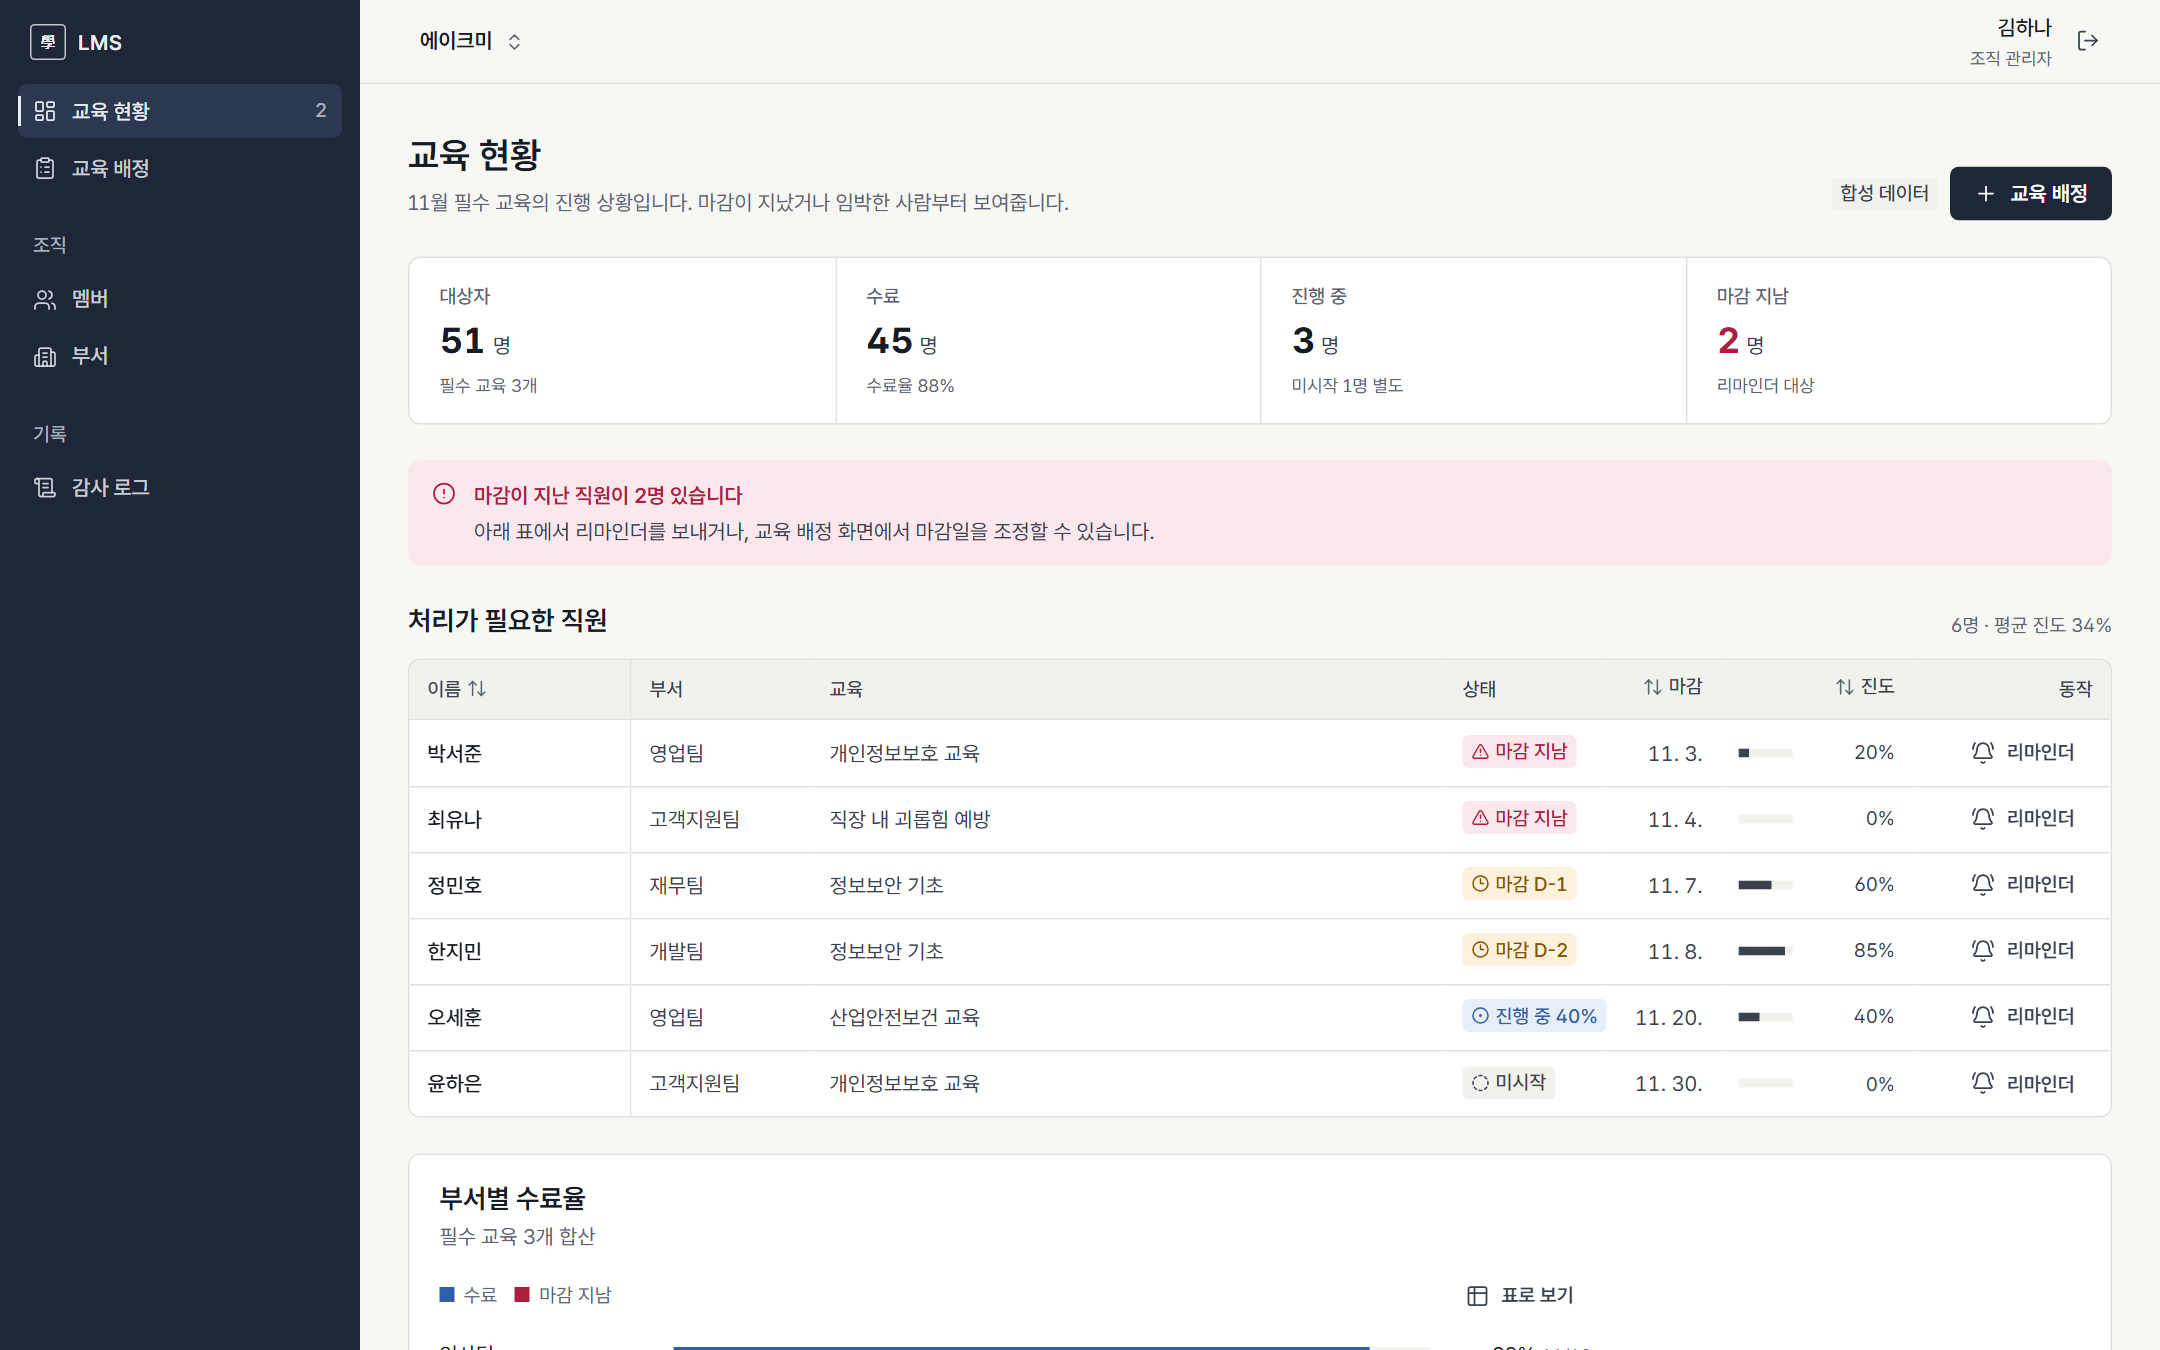
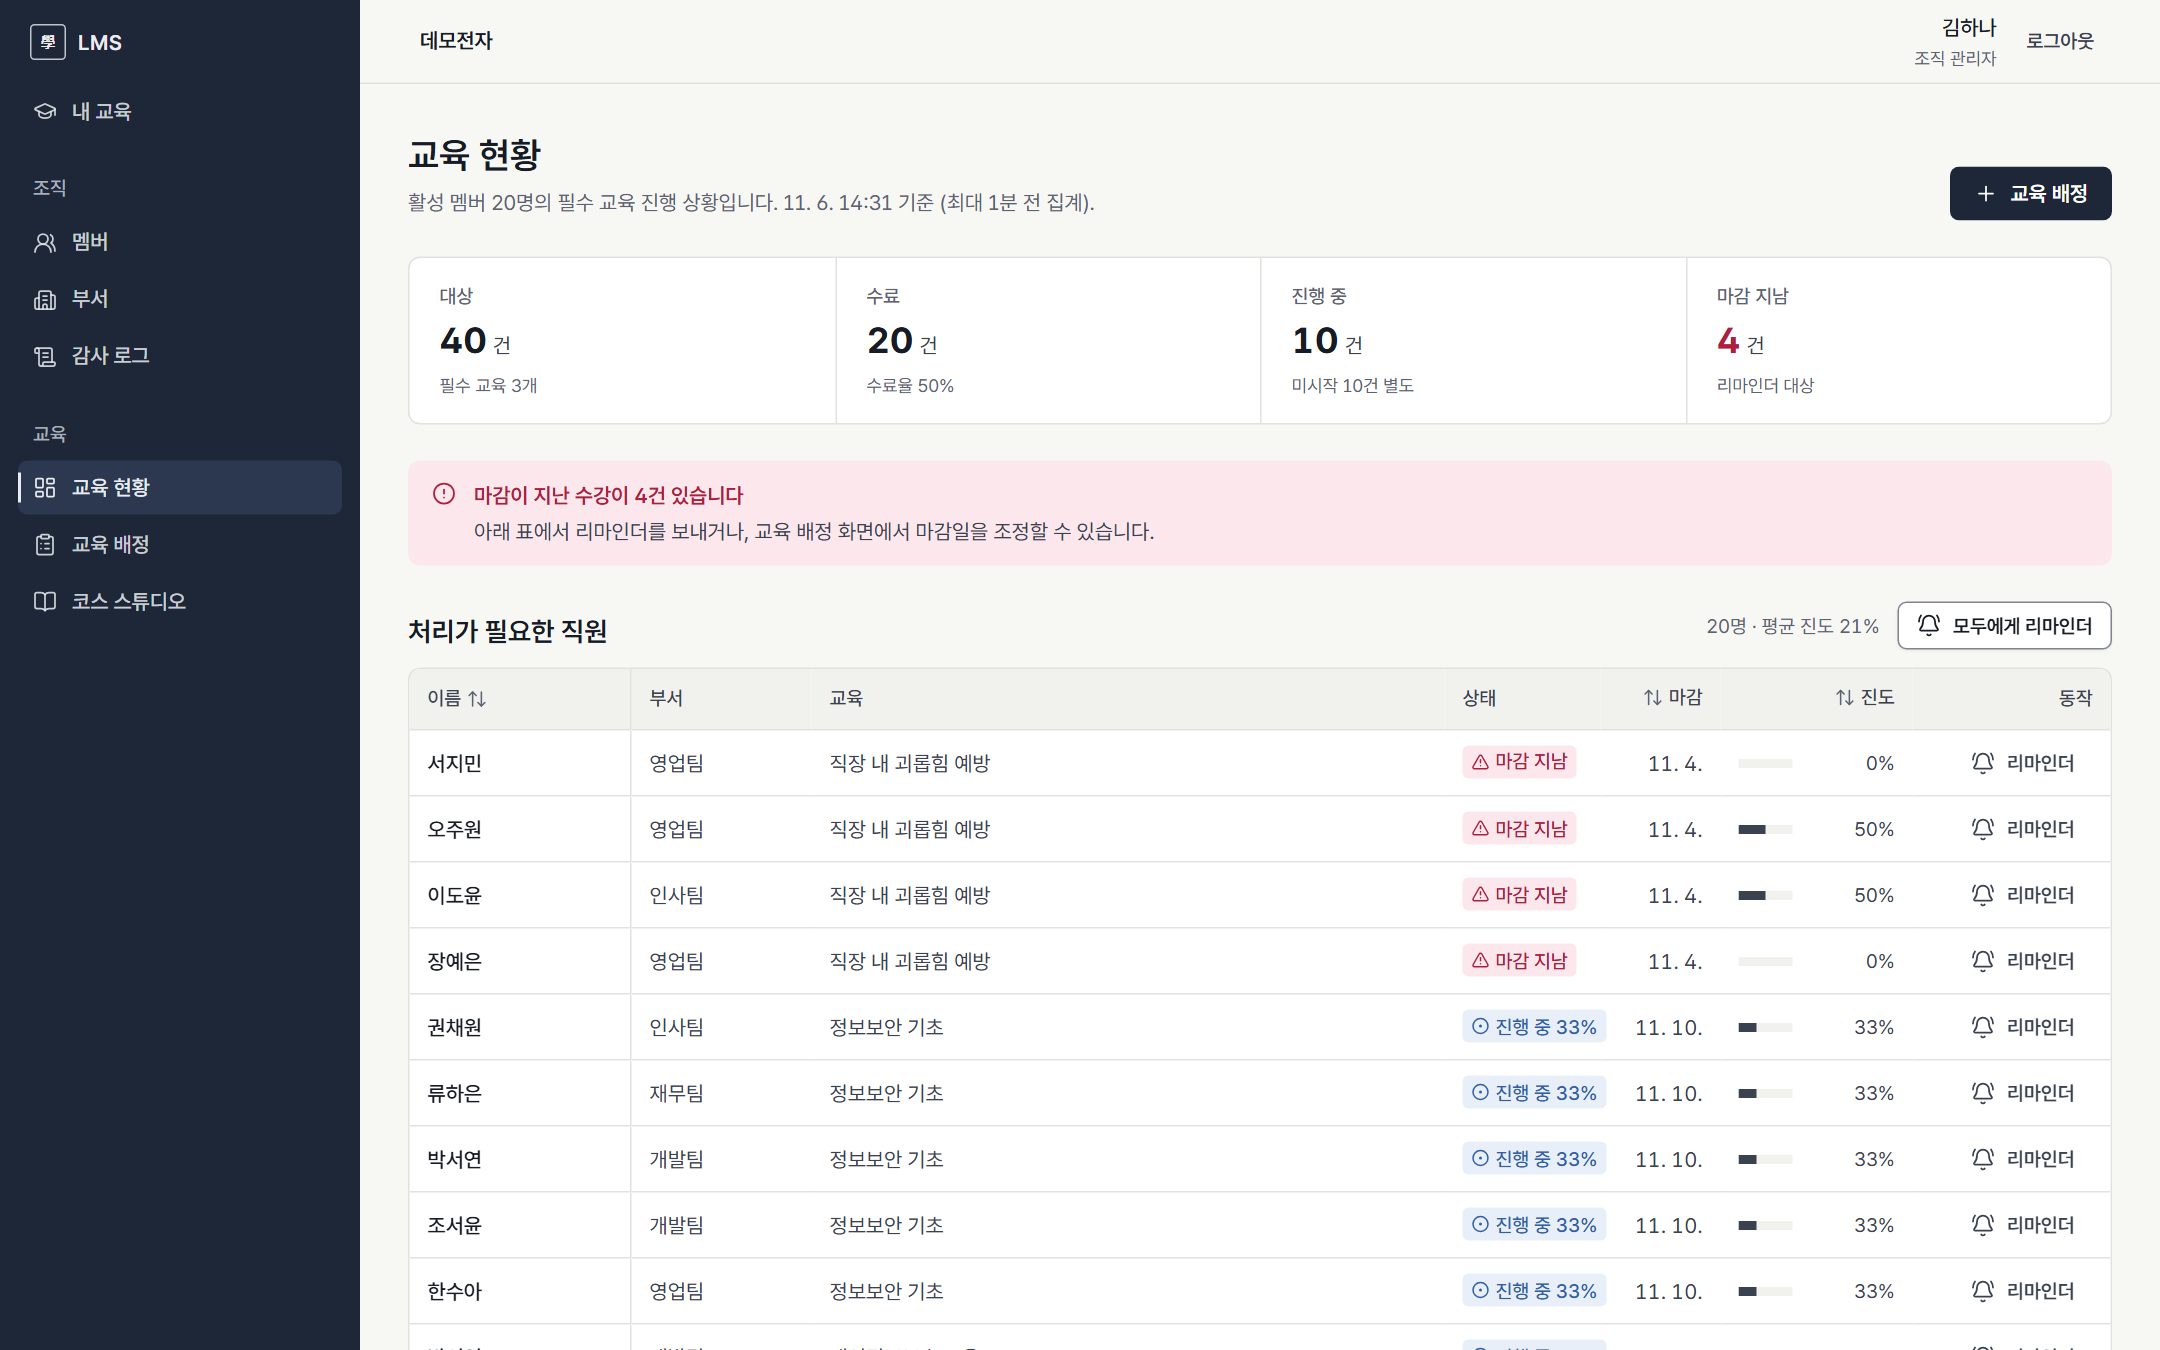
docs: README screenshots from the running app with demo data
A Playwright script (frontend/e2e/screenshots, `pnpm screenshots`) signs in
with seeded accounts and captures the dashboard (desktop and mobile) and
the completion seal, replacing the Storybook-era images. The E2E tests now
share the sign-in helper. Notes and Q&A updated for the name-order fix.

diff --git a/frontend/e2e/screenshots/readme.spec.ts b/frontend/e2e/screenshots/readme.spec.ts
@@ -1,0 +1,67 @@
+import path from "node:path";
+
+import { expect, test, type Page } from "@playwright/test";
+
+import { signIn } from "../support/auth";
+
+/**
+ * README screenshots from the running app with the seeded demo data (not from Storybook), so
+ * the pictures show what the demo shows. Writes docs/images/*.png. Run on purpose only:
+ *   playwright test --config playwright.screenshots.config.ts
+ * It completes one course of SEAL_LEARNER (not learner@, which is kept for the live demo).
+ */
+const IMAGES = path.join(__dirname, "../../../docs/images");
+const SEAL_LEARNER = process.env.SEAL_LEARNER ?? "minjun.choi@demo-elec.test";
+
+async function dashboard(page: Page) {
+  await signIn(page, "admin@demo-elec.test");
+  await page.goto("/app/dashboard");
+  await expect(page.getByRole("table", { name: "처리가 필요한 직원" })).toBeVisible();
+  await page.evaluate(() => document.fonts.ready);
+}
+
+test.describe("desktop", () => {
+  test.use({ viewport: { width: 1440, height: 900 }, deviceScaleFactor: 1.5 });
+
+  test("admin-dashboard", async ({ page }) => {
+    await dashboard(page);
+    await page.screenshot({ path: `${IMAGES}/admin-dashboard.png` });
+  });
+});
+
+test.describe("mobile", () => {
+  test.use({ viewport: { width: 390, height: 844 }, deviceScaleFactor: 2, isMobile: true, hasTouch: true });
+
+  test("admin-mobile", async ({ page }) => {
+    await dashboard(page);
+    await page.screenshot({ path: `${IMAGES}/admin-mobile.png` });
+  });
+});
+
+test.describe("seal", () => {
+  test.use({ viewport: { width: 1280, height: 820 }, deviceScaleFactor: 1.5 });
+
+  test("learner-completed", async ({ page }) => {
+    await signIn(page, SEAL_LEARNER);
+    await page.getByRole("link", { name: /이어서 학습하기|학습 시작하기/ }).first().click();
+    const curriculum = page.getByRole("heading", { name: "커리큘럼" });
+    for (let i = 0; i < 10; i++) {
+      await expect(curriculum).toBeVisible();
+      const [done, total] = (await page.getByText(/^\d+\/\d+ 레슨$/).innerText()).split(/[/ ]/).map(Number);
+      if (done >= total) break;
+      await page.getByRole("link", { name: /이어서 학습하기|학습 시작하기/ }).first().click();
+      await page.getByRole("button", { name: "다 읽었어요" }).click();
+      await expect(page.getByText("완료", { exact: true }).first()).toBeVisible();
+      await page.getByRole("link", { name: "코스로", exact: false }).first().click();
+      await expect(page).toHaveURL(/\/app\/learn\/[0-9a-f-]+$/);
+    }
+    await page.getByRole("link", { name: /퀴즈 보기|이어서 응시/ }).first().click();
+    await page.getByLabel("담당 부서에 알린다").check();
+    await page.getByLabel("규칙을 확인한다").check();
+    await page.getByLabel("기록을 남긴다").check();
+    await page.getByRole("button", { name: "제출하고 채점하기" }).click();
+    await expect(page.getByText(/수료번호 LMS-\d{4}-/)).toBeVisible();
+    await page.waitForTimeout(1500); // the seal's one-time stamp animation
+    await page.screenshot({ path: `${IMAGES}/learner-completed.png` });
+  });
+});

diff --git a/frontend/e2e/tests/learner-completes-course.spec.ts b/frontend/e2e/tests/learner-completes-course.spec.ts
@@ -1,24 +1,15 @@
-import { expect, test, type Page } from "@playwright/test";
+import { expect, test } from "@playwright/test";
+
+import { signIn } from "../support/auth";
 
 /**
  * Scenario 6–7 as a learner would do it: sign in (email-first Keycloak login) → "내 교육" →
  * finish the remaining lessons → pass the quiz → the seal. Uses the seeded demo company
  * (docs: --lms.seed=true). Each run completes one more unfinished course of the account.
  */
-const PASSWORD = "Demo-2026-lms";
 // Not learner@: that account is kept for the live demo. This one starts with two untouched
 // courses, so two runs complete both; then re-seed (README) or point E2E_LEARNER elsewhere.
 const LEARNER = process.env.E2E_LEARNER ?? "dohyun.yoon@demo-elec.test";
-
-async function signIn(page: Page, email: string) {
-  await page.goto("/app");
-  // Keycloak's login theme: email first, then the password on the next page.
-  await page.locator('input[name="username"]').fill(email);
-  await page.locator('[type="submit"]').first().click();
-  await page.locator('input[name="password"]').fill(PASSWORD);
-  await page.locator('[type="submit"]').first().click();
-  await expect(page).toHaveURL(/localhost:3000\/app$/);
-}
 
 test("학습자가 남은 레슨을 마치고 퀴즈를 통과해 수료한다", async ({ page }) => {
   await signIn(page, LEARNER);

diff --git a/frontend/e2e/support/auth.ts b/frontend/e2e/support/auth.ts
@@ -1,0 +1,14 @@
+import { expect, type Page } from "@playwright/test";
+
+/** Every seeded demo account (backend DemoSeeder.PASSWORD). Local only. */
+export const DEMO_PASSWORD = "Demo-2026-lms";
+
+/** Keycloak's login theme asks for the email first, then the password on the next page. */
+export async function signIn(page: Page, email: string) {
+  await page.goto("/app");
+  await page.locator('input[name="username"]').fill(email);
+  await page.locator('[type="submit"]').first().click();
+  await page.locator('input[name="password"]').fill(DEMO_PASSWORD);
+  await page.locator('[type="submit"]').first().click();
+  await expect(page).toHaveURL(/localhost:3000\/app$/);
+}

diff --git a/frontend/e2e/playwright.screenshots.config.ts b/frontend/e2e/playwright.screenshots.config.ts
@@ -1,0 +1,10 @@
+import { defineConfig, devices } from "@playwright/test";
+
+import base from "./playwright.config";
+
+/** README screenshots (screenshots/readme.spec.ts). Same local stack as the E2E tests. */
+export default defineConfig({
+  ...base,
+  testDir: "./screenshots",
+  projects: [{ name: "chromium", use: { ...devices["Desktop Chrome"] } }],
+});

diff --git a/docs/notes/day5.md b/docs/notes/day5.md
@@ -14,7 +14,7 @@
 | 배포 | `envs/demo/main.tf` | 구조화 로그(ECS JSON) |
 | 문서 | `docs/09-interview-qa.md`, `docs/10-demo-script.md` | 예상 질문과 답, 5분 시연 대본 |
 
-검증: 백엔드 **80개** 통과, Playwright **2개** 통과(학습 경로 전체가 실제 브라우저·Keycloak·API·DB를 지남), Terraform `validate` 두 스택 통과.
+검증: 백엔드 **82개** 통과(한글 이름 순서 단위 테스트 2개 포함), Playwright **2개** 통과(학습 경로 전체가 실제 브라우저·Keycloak·API·DB를 지남), Terraform `validate` 두 스택 통과.
 
 ---
 
@@ -42,6 +42,13 @@
 | 테스트가 가끔 레슨을 건너뜀 | `isVisible()`은 **기다리지 않는다.** 페이지가 바뀌는 중에 확인해서 "링크 없음"으로 판단 | 화면의 "2/3 레슨" 숫자를, 페이지가 그려진 뒤(`expect(...).toBeVisible()`로 기다림) 읽어서 판단 |
 
 - 면접에서: "E2E는 하나뿐인데 버그 두 개를 잡았습니다. 하나는 번들러가 라이브러리를 라우트마다 복제해서 생긴 `instanceof` 실패였고, 하나는 개발 서버가 자기 로그 파일을 보고 무한히 다시 빌드하던 문제였습니다."
+
+### 스크린샷을 찍다가 찾은 문제: 한글 이름 순서
+
+- README 이미지를 Storybook이 아니라 **실행 중인 앱에서 시드 데이터로** 찍었다(`frontend/e2e/screenshots/readme.spec.ts`, 시연 화면과 같은 그림).
+- 찍어 보니 이름이 "하나 김", "도윤 이"로 나왔다. Keycloak의 `name` 클레임은 항상 "이름 성"으로 붙이는데, 한국 이름은 **성 + 이름, 띄어쓰기 없이** 읽는다.
+- 로그인할 때마다 토큰으로 이름을 갱신하므로 시드만 고치면 다시 덮어쓰인다. 그래서 **둘 중 하나라도 한글이면 `family_name` + `given_name`으로 직접 조립**하고, 아니면 Keycloak 값을 그대로 쓴다("Jane Doe"). 시드도 같은 함수를 쓴다.
+- 면접에서: "글로벌 IdP의 기본값이 한국 사용자에게 맞지 않는 사례였습니다. 이름 순서처럼 사소해 보이는 것이 HR 제품에서는 신뢰 문제라서, 화면으로 직접 확인하는 단계를 둔 게 도움이 됐습니다."
 
 ## 3. 도메인: 가비아에서 사고 Route 53이 답한다
 

diff --git a/docs/notes/day4.md b/docs/notes/day4.md
@@ -19,7 +19,7 @@
 [MediaConvert] 작업 완료·실패 ─ EventBridge 규칙 ─ SQS(lms-transcode) ─ 워커 → 영상 READY(HLS) / FAILED
 [대시보드] JdbcClient 집계 SQL ─ @Cacheable(회사 ID 키, Redis 60초) ─ 수료·배정 커밋 후 캐시 비움
 [감사 로그] 도메인 이벤트 구독 → audit_log (INSERT·SELECT 권한만)
-[진위 확인] /verify/{수료번호} ─ verify_certificate() SECURITY DEFINER 함수 ─ 이름 가림("하**김")
+[진위 확인] /verify/{수료번호} ─ verify_certificate() SECURITY DEFINER 함수 ─ 이름 가림("김*나")
 ```
 
 | 위치 | 파일 | 역할 |
@@ -82,7 +82,7 @@
 
 - 수료증을 받은 회사(외부 기관, 채용 담당자)는 로그인하지 않고 `/verify/LMS-2026-XXXXXXXX`로 확인한다.
 - 문제: 로그인이 없으면 회사 컨텍스트가 없고, RLS 때문에 아무 행도 안 보인다. RLS를 끄면 격리가 깨진다.
-- 해결: **`verify_certificate(serial)` 함수 하나만 `SECURITY DEFINER`**로 만들었다. 수료번호가 정확히 일치하는 한 건만, **필요한 열만, 이름은 가려서**("하**김") 돌려준다. 앱 계정은 이 함수 실행 권한만 받는다. 표 전체를 훑을 방법이 없다.
+- 해결: **`verify_certificate(serial)` 함수 하나만 `SECURITY DEFINER`**로 만들었다. 수료번호가 정확히 일치하는 한 건만, **필요한 열만, 이름은 가려서**("김*나") 돌려준다. 앱 계정은 이 함수 실행 권한만 받는다. 표 전체를 훑을 방법이 없다.
 - 수료번호는 Crockford Base32 8자(약 1조 가지) 난수라서 순서대로 넣어 보는 공격이 사실상 불가능하다. 운영이라면 IP별 요청 제한을 붙인다.
 
 ## 5. 메일: 배정 안내, 리마인더, 수료 축하

diff --git a/README.md b/README.md
@@ -17,7 +17,7 @@
   </tr>
 </table>
 
-<sub>화면의 회사·사람·수치는 모두 합성 데이터입니다.</sub>
+<sub>실행 중인 앱에서 데모 시드 데이터로 찍은 화면입니다(`cd frontend/e2e && pnpm screenshots`). 회사·사람·수치는 모두 합성 데이터입니다.</sub>
 
 ---
 
@@ -108,7 +108,7 @@ AWS 배포 설계(ECS Fargate, RDS, ElastiCache, SQS, S3/CloudFront, MediaConver
 
 | 범위 | 개수 | 무엇을 증명하나 |
 |---|---|---|
-| 백엔드 (`./gradlew test`) | 80 | 회사 간 접근 차단(404), RLS가 직접 SQL도 차단, 커넥션 풀 누수 없음, 모든 테넌트 테이블에 RLS 강제, 모듈 경계, 초대 사가, 동시 편집(ETag), 업로드, 배정 멱등성, 인정 시간 경계값, 퀴즈 채점, 아웃박스 → 워커 → PDF·메일, 대시보드 캐시, 감사 로그, 영상 변환 이벤트 |
+| 백엔드 (`./gradlew test`) | 82 | 회사 간 접근 차단(404), RLS가 직접 SQL도 차단, 커넥션 풀 누수 없음, 모든 테넌트 테이블에 RLS 강제, 모듈 경계, 초대 사가, 동시 편집(ETag), 업로드, 배정 멱등성, 인정 시간 경계값, 퀴즈 채점, 아웃박스 → 워커 → PDF·메일, 대시보드 캐시, 감사 로그, 영상 변환 이벤트 |
 | 디자인 시스템 (`pnpm --filter @lms/ui test`) | 98 | 모든 스토리를 Chromium에서 실행: 상호작용(`play`) + axe 접근성 검사 |
 | E2E (Playwright) | 2 | 로그인(Keycloak) → 레슨 → 퀴즈 → 수료, 관리자 대시보드. 목 없이 로컬 스택 전체 |
 | 토큰 대비 (`pnpm --filter @lms/ui check:contrast`) | 28쌍 | DESIGN.md가 쓰는 모든 색 조합이 WCAG 2.2 AA |
